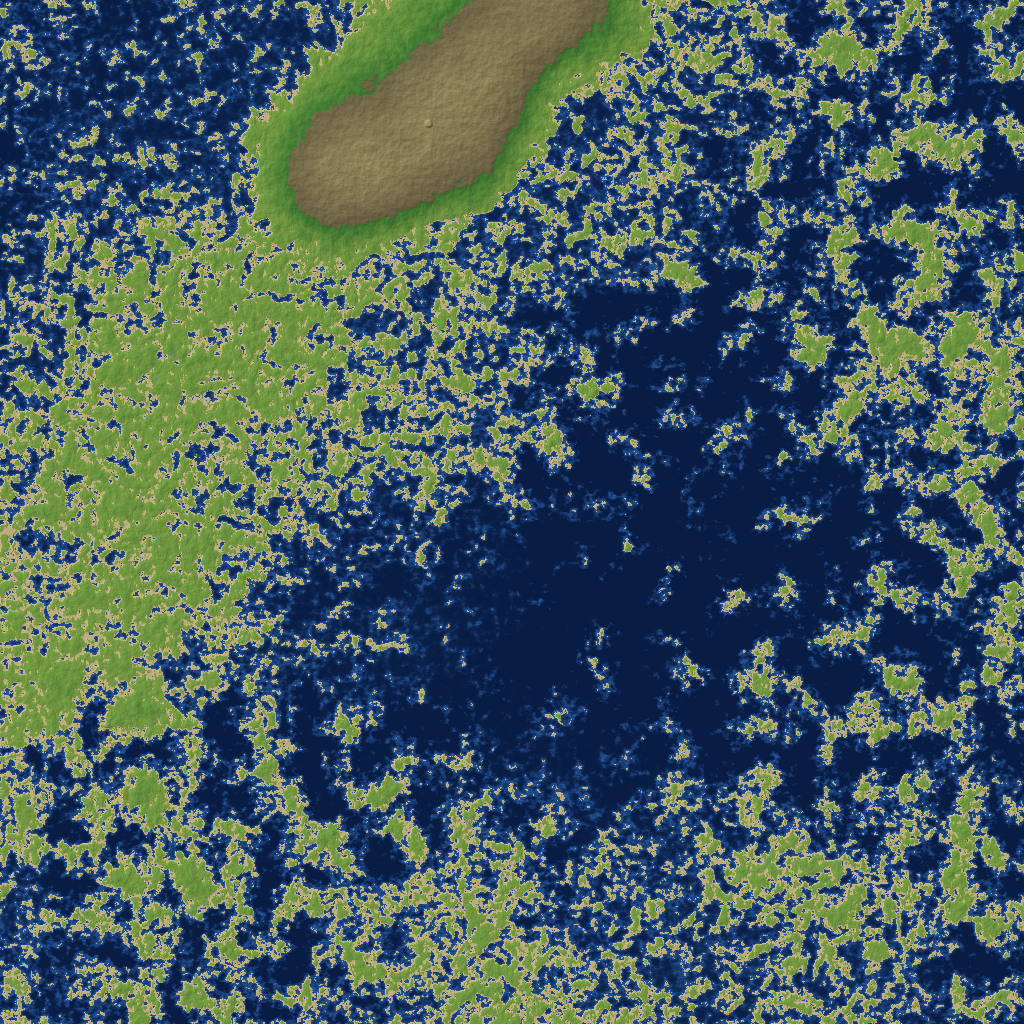
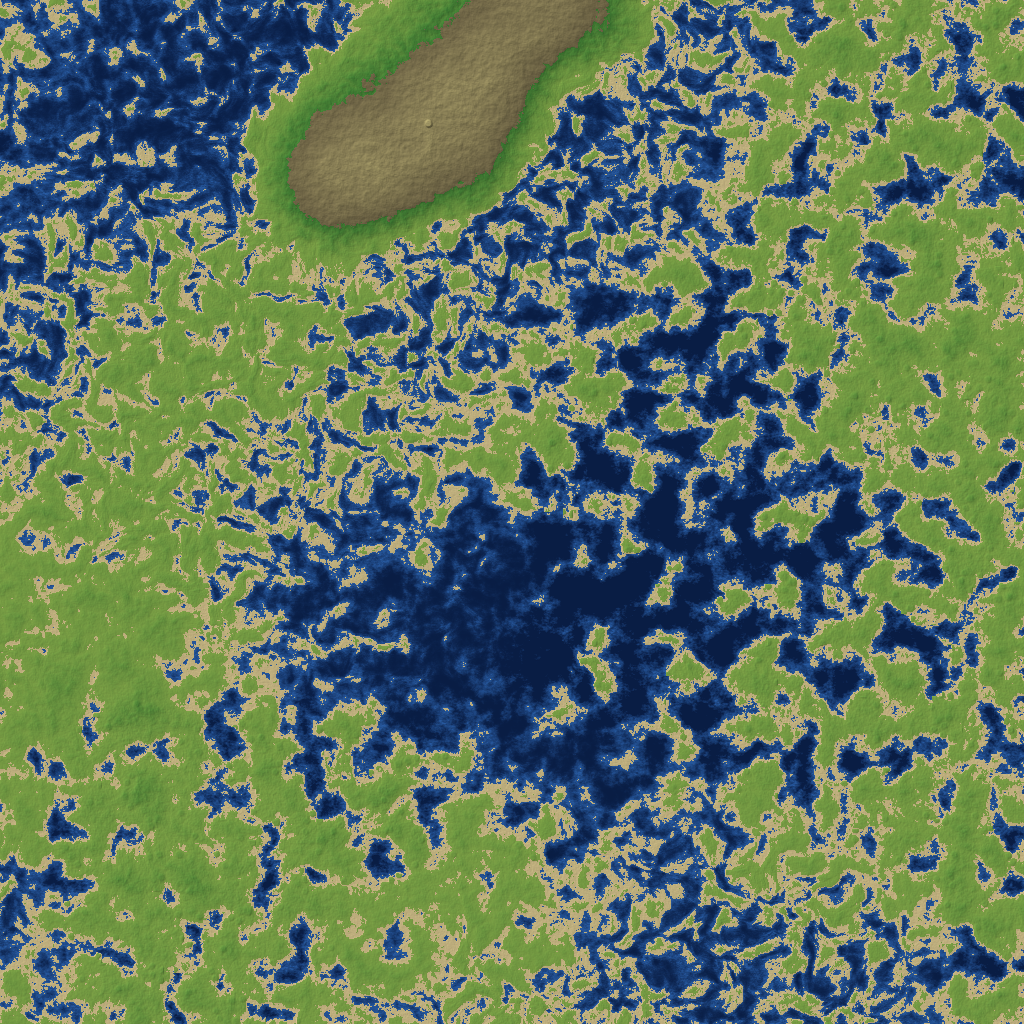
Phase 3.6.3a: Feature delta expansion, L1 tuning, reduce waterworld

diff --git a/crates/world/src/terrain.rs b/crates/world/src/terrain.rs
@@ -231,8 +231,13 @@ impl BiomeProfile {
         primitive: PrimitiveType::DomainWarped,
         spacing_m: 10_000.0,
         octaves: 5,
-        amplitude_m: 300.0,     // moderate relief
-        mean_altitude_m: -50.0, // sits near sea level (slight negative so fjords form)
+        amplitude_m: 300.0,    // moderate relief
+        mean_altitude_m: 50.0, // coastline-with-fjords: mean sits above sea level;
+        // fine-octave variation crosses 0 at shoreline to carve
+        // fjords. Previous −50 m produced a waterworld look —
+        // biome covered ~25% of the world, so mean below sea
+        // dragged much of that area underwater (coastline tuning
+        // pass 2026-04-23).
         octave_offset_base: 540,
         ridged_offset: 1.0,
         ridged_power: 1.5,
@@ -533,6 +538,45 @@ impl Terrain {
 /// shore classification lands in 3.6.1d.
 const BEACH_WIDTH_M: f32 = 20.0;
 
+/// Shore-band width (m) for fine-octave suppression.
+///
+/// Cells whose slow (regional + biome) altitude is within ±this of sea
+/// level have their fine-octave contribution attenuated to
+/// [`SHORE_ATTENUATION_FLOOR`]. Inland cells (`|slow_altitude|` >
+/// this) retain full fine amplitude.
+///
+/// 400 m chosen so the shore smoothing covers the fine-octave peak
+/// amplitude (±150 m × ~1.5 fBm peak ≈ ±225 m) with some margin.
+/// Narrower would leave residual speckle; wider would flatten more
+/// inland terrain unnecessarily.
+const SHORE_BAND_WIDTH_M: f32 = 400.0;
+
+/// Floor for fine-octave amplitude at the exact shoreline.
+///
+/// 0.20 means fine retains 20 % of its amplitude at altitude 0,
+/// attenuating gradually up to 100 % at `|slow_altitude|` =
+/// [`SHORE_BAND_WIDTH_M`]. 20 % preserves enough texture for beach
+/// visual variety without producing the broken-coast speckle at full
+/// amplitude.
+const SHORE_ATTENUATION_FLOOR: f32 = 0.20;
+
+/// Shore-proximity fine-amplitude factor.
+///
+/// Returns 1.0 when `slow_altitude_m` is far from shore (no
+/// suppression), [`SHORE_ATTENUATION_FLOOR`] at exactly shore,
+/// smoothstep between.
+///
+/// Pure function of the slow-varying (regional + `biome_contribution`)
+/// altitude, not the full altitude — we need a value we can compute
+/// BEFORE adding fine to avoid circularity.
+#[inline]
+#[must_use]
+fn shore_attenuation(slow_altitude_m: f32) -> f32 {
+    let t = (slow_altitude_m.abs() / SHORE_BAND_WIDTH_M).clamp(0.0, 1.0);
+    let ramp = t * t * (3.0 - 2.0 * t); // smoothstep(0, 1, t)
+    SHORE_ATTENUATION_FLOOR + (1.0 - SHORE_ATTENUATION_FLOOR) * ramp
+}
+
 /// `raw * smoothstep(0, width, |raw|)^2`. Below `width` heights are
 /// compressed with a cubic curve; at or above `width` the identity
 /// function applies. Sign preserved.
@@ -570,7 +614,7 @@ impl Terrain {
                 self.config.regional_octaves,
                 min_spacing_m,
             );
-        let fine = self.config.fine_amplitude_m
+        let fine_raw = self.config.fine_amplitude_m
             * fbm_2d_at_scale(
                 self.seed,
                 100,
@@ -580,7 +624,6 @@ impl Terrain {
                 self.config.fine_octaves,
                 min_spacing_m,
             );
-        let baseline = regional + fine;
 
         let (biome_contribution_total, envelope) = if self.amplitude_scale > 0.0 {
             let weights = biome_weights_at(self.seed, x, z);
@@ -592,7 +635,17 @@ impl Terrain {
             (0.0, BiomeEnvelope::WORLD_DEFAULT)
         };
 
-        let raw = self.amplitude_scale * (baseline + biome_contribution_total);
+        // Proximity-to-shore fine-octave suppression (coastline-quality
+        // tuning pass, 2026-04-23). Fine fbm at ±150 m amplitude crosses
+        // sea level (altitude 0) many times near shorelines, producing
+        // speckled sub-km islands and "broken" coast. Solution: attenuate
+        // fine amplitude where the slow-varying (regional + biome)
+        // altitude is near 0. Inland cells (|slow_altitude| > shore band
+        // width) retain full fine detail.
+        let slow_altitude = regional + biome_contribution_total;
+        let fine = self.amplitude_scale * fine_raw * shore_attenuation(slow_altitude);
+
+        let raw = self.amplitude_scale * (regional + biome_contribution_total) + fine;
 
         // Per-biome envelope soft-clamp — caps biome-blended raw output
         // into [hard_min, hard_max] band per real-world-possible gate.

diff --git a/crates/world/src/composed.rs b/crates/world/src/composed.rs
@@ -142,7 +142,7 @@ impl<'a> WorldRefs<'a> {
     clippy::unwrap_used,
     clippy::expect_used,
     clippy::cast_precision_loss,
-    clippy::many_single_char_names,
+    clippy::many_single_char_names
 )]
 mod tests {
     use super::*;
